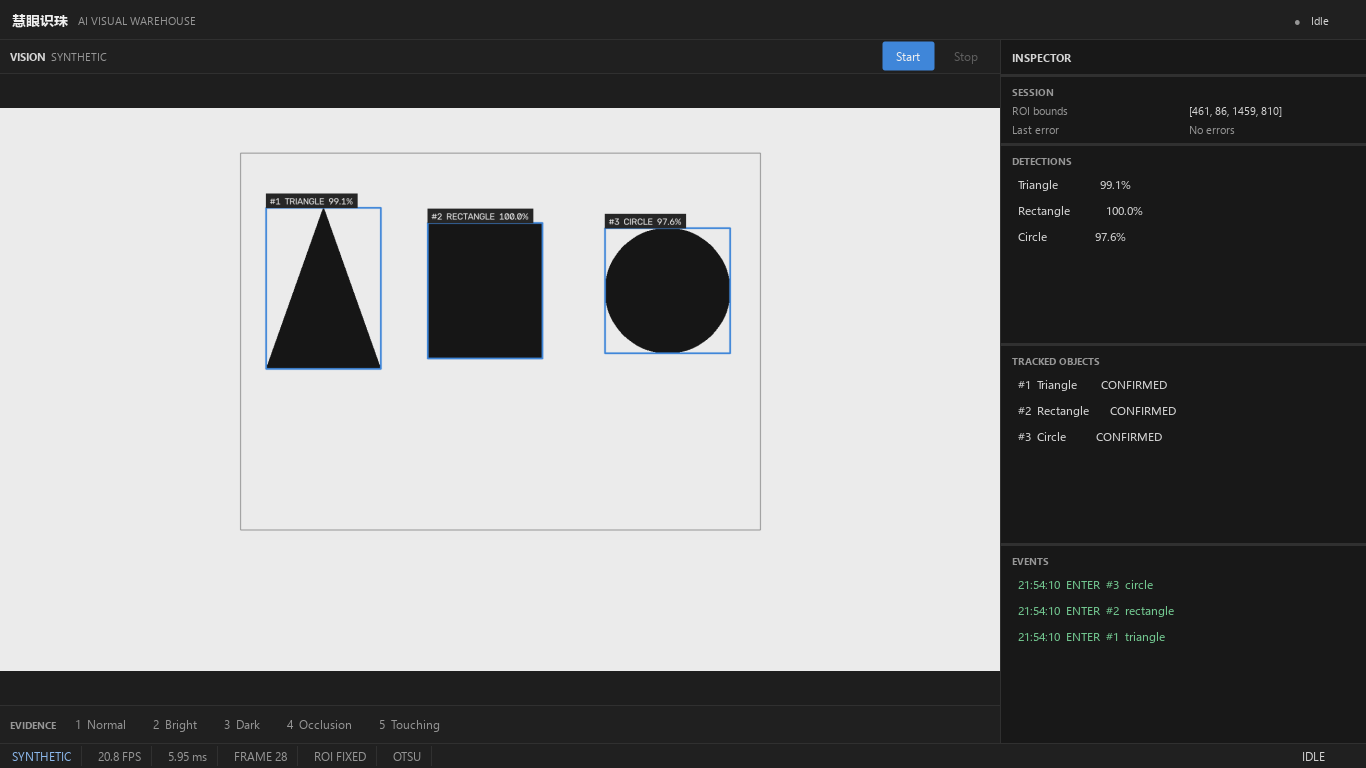
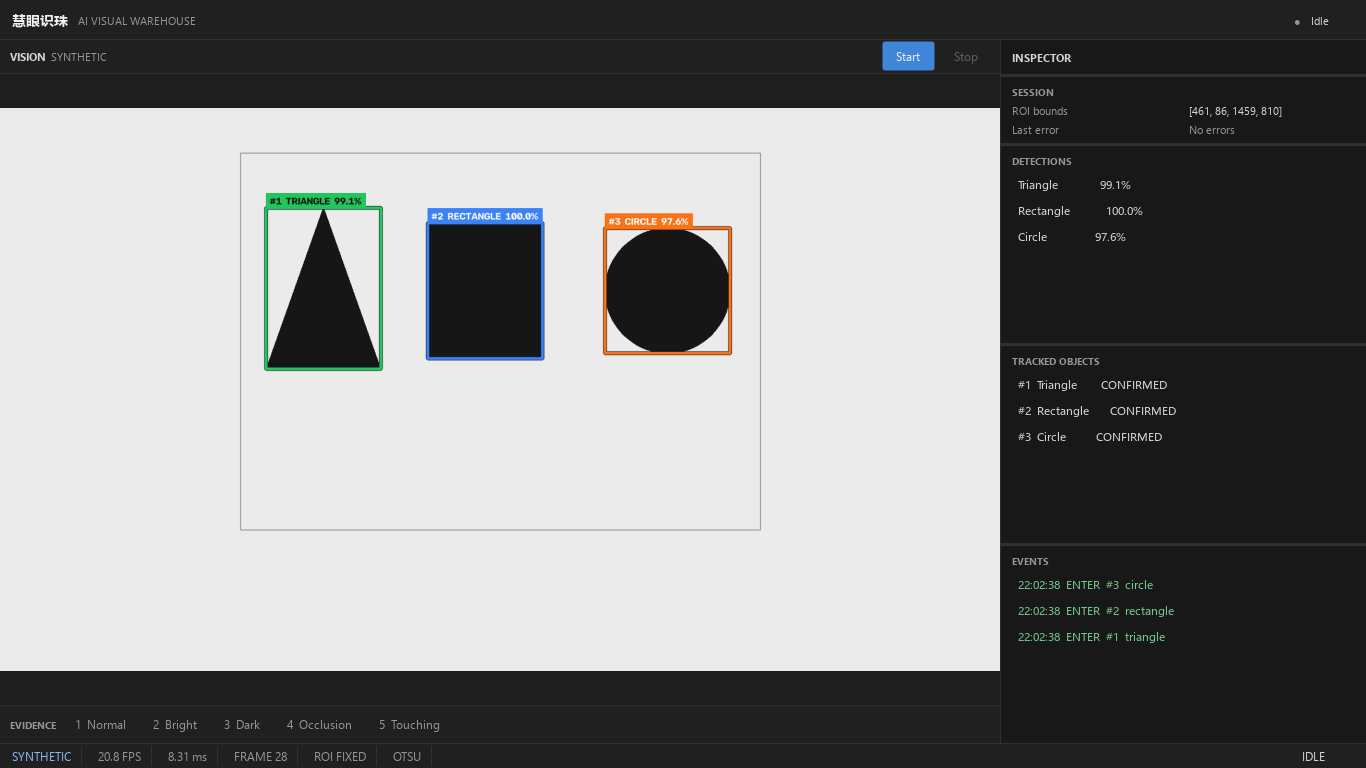
style(m5): improve detection overlay contrast

diff --git a/pc/gui/overlay.py b/pc/gui/overlay.py
@@ -16,6 +16,20 @@ def _display_label(detection: Detection, object_id: int | None) -> str:
     return f"{identity}{detection.label.upper()}  {detection.confidence * 100:.1f}%"
 
 
+def _class_color(label: str) -> tuple[int, int, int]:
+    return {
+        "triangle": OVERLAY.triangle_bgr,
+        "rectangle": OVERLAY.rectangle_bgr,
+        "circle": OVERLAY.circle_bgr,
+    }.get(label, OVERLAY.unknown_bgr)
+
+
+def _contrasting_text(background_bgr: tuple[int, int, int]) -> tuple[int, int, int]:
+    blue, green, red = background_bgr
+    luminance = 0.0722 * blue + 0.7152 * green + 0.2126 * red
+    return (18, 18, 18) if luminance >= 145 else (250, 250, 250)
+
+
 def annotated_gui_frame(
     image: Image,
     analysis: MultiImageAnalysis,
@@ -41,11 +55,20 @@ def annotated_gui_frame(
     }
     for detection in detections:
         x, y, width, height = detection.bbox
+        color = _class_color(detection.label)
         cv2.rectangle(
             output,
             (x, y),
             (x + width - 1, y + height - 1),
-            OVERLAY.bbox_bgr,
+            OVERLAY.bbox_outline_bgr,
+            OVERLAY.bbox_outline_thickness,
+            cv2.LINE_AA,
+        )
+        cv2.rectangle(
+            output,
+            (x, y),
+            (x + width - 1, y + height - 1),
+            color,
             OVERLAY.bbox_thickness,
             cv2.LINE_AA,
         )
@@ -63,7 +86,7 @@ def annotated_gui_frame(
             output,
             (x, label_top),
             (label_right, label_top + label_height),
-            OVERLAY.label_background_bgr,
+            color,
             cv2.FILLED,
         )
         cv2.putText(
@@ -72,7 +95,7 @@ def annotated_gui_frame(
             (x + OVERLAY.label_padding_x, label_top + OVERLAY.label_padding_y + text_height),
             cv2.FONT_HERSHEY_SIMPLEX,
             OVERLAY.font_scale,
-            OVERLAY.label_text_bgr,
+            _contrasting_text(color),
             OVERLAY.font_thickness,
             cv2.LINE_AA,
         )

diff --git a/pc/tests/test_gui_overlay.py b/pc/tests/test_gui_overlay.py
@@ -6,7 +6,7 @@ import numpy as np
 from pc.events.adapters import detections_from_analysis
 from pc.events.config import load_event_config
 from pc.events.tracker import ObjectStateManager
-from pc.gui.overlay import annotated_gui_frame
+from pc.gui.overlay import _class_color, _contrasting_text, annotated_gui_frame
 from pc.gui.theme import OVERLAY
 from pc.vision.config import load_vision_config
 from pc.vision.pipeline import analyze_multiple_objects
@@ -58,3 +58,12 @@ def test_gui_overlay_uses_subdued_roi_token() -> None:
     assert roi_pixel[0] == roi_pixel[1] == roi_pixel[2]
     assert OVERLAY.roi_bgr[0] <= roi_pixel[0] < int(source[top, left, 0])
     assert OVERLAY.roi_thickness == 1
+
+
+def test_gui_overlay_uses_distinct_yolo_style_class_colors() -> None:
+    colors = [_class_color(label) for label in ("triangle", "rectangle", "circle", "unknown")]
+
+    assert len(set(colors)) == 4
+    assert OVERLAY.bbox_thickness == 3
+    assert OVERLAY.bbox_outline_thickness > OVERLAY.bbox_thickness
+    assert all(_contrasting_text(color) in ((18, 18, 18), (250, 250, 250)) for color in colors)

diff --git a/pc/gui/theme.py b/pc/gui/theme.py
@@ -44,13 +44,16 @@ THEME = ThemeTokens()
 @dataclass(frozen=True)
 class OverlayTokens:
     roi_bgr: tuple[int, int, int] = (112, 112, 112)
-    bbox_bgr: tuple[int, int, int] = (217, 134, 63)
-    label_background_bgr: tuple[int, int, int] = (38, 38, 38)
-    label_text_bgr: tuple[int, int, int] = (235, 235, 235)
+    triangle_bgr: tuple[int, int, int] = (94, 197, 34)
+    rectangle_bgr: tuple[int, int, int] = (246, 130, 59)
+    circle_bgr: tuple[int, int, int] = (22, 115, 249)
+    unknown_bgr: tuple[int, int, int] = (68, 68, 239)
+    bbox_outline_bgr: tuple[int, int, int] = (24, 24, 24)
     roi_thickness: int = 1
-    bbox_thickness: int = 2
-    font_scale: float = 0.58
-    font_thickness: int = 1
+    bbox_outline_thickness: int = 5
+    bbox_thickness: int = 3
+    font_scale: float = 0.62
+    font_thickness: int = 2
     label_padding_x: int = 7
     label_padding_y: int = 5
 

diff --git a/docs/ROADMAP.md b/docs/ROADMAP.md
@@ -54,7 +54,7 @@
 - **验收标准**：持续运行无明显阻塞；画面和识别信息同步；性能和恢复行为有实测记录。
 - **所需真实硬件**：摄像头。
 - **是否可在宿舍完成**：是。
-- **当前状态**：DOING。PySide6 6.11.2 已锁定；QObject/QThread worker、容量 1 的 latest-frame buffer、synthetic/camera source adapter、M3/M4 同步 snapshot、Start/Stop/restart/close 和异常恢复均已实现。GUI 已重构为 Application Bar、Vision Workspace、连续 Inspector 和 Status Bar 的桌面工程工具布局。109 项全量 pytest 通过；60.011 秒 synthetic/offscreen soak 处理并显示 1284 帧，processing/GUI FPS 均为 21.395960，0 failed read、0 error、正常退出。该证据不是摄像头实测；完成真实 Insta360 GUI 连续刷新、同步显示、性能与正常关闭验收前不得标记 `DONE`。
+- **当前状态**：DOING。PySide6 6.11.2 已锁定；QObject/QThread worker、容量 1 的 latest-frame buffer、synthetic/camera source adapter、M3/M4 同步 snapshot、Start/Stop/restart/close 和异常恢复均已实现。GUI 已重构为 Application Bar、Vision Workspace、连续 Inspector 和 Status Bar 的桌面工程工具布局，检测叠加采用带深色外描边的 YOLO 风格类别色框。110 项全量 pytest 通过；60.011 秒 synthetic/offscreen soak 处理并显示 1284 帧，processing/GUI FPS 均为 21.395960，0 failed read、0 error、正常退出。该证据不是摄像头实测；完成真实 Insta360 GUI 连续刷新、同步显示、性能与正常关闭验收前不得标记 `DONE`。
 
 ## M6 Fake PLC 模拟器 — TODO
 

diff --git a/notes/daily/2026-09-04-M5-GUI离线软件验证.md b/notes/daily/2026-09-04-M5-GUI离线软件验证.md
@@ -45,4 +45,4 @@ status: offline-complete-live-pending
 
 同日按纯 presentation-layer 范围完成一次视觉与信息架构重构：原来的两行标题和四个独立圆角 Card 改为 40 px Application Bar、约 72:28 的 Vision Workspace / Inspector、紧凑 evidence toolbar 和 24 px Status Bar。Inspector 采用连续侧栏、section heading 与 1 px divider；主题 token 集中在 `pc/gui/theme.py`。GUI overlay 改为弱化 ROI、紧凑 `#ID + CLASS + 百分比` 标签，但 M3 分类、M4 tracking/events、worker、source、ROI 和 evidence 保存均未改变。
 
-实际查看两轮 1366×768 offscreen 截图后，又修正了 QLabel 块状继承背景和过高权重的亮蓝状态栏。最终截图见 `../../evidence/screenshots/m5/synthetic/m5-gui-desktop-workspace.png`。新增结构/overlay 验证后完整 pytest 为 `109 passed in 4.03s`；这仍是 synthetic UI 证据，不改变 M5 `DOING` 状态。
+实际查看两轮 1366×768 offscreen 截图后，又修正了 QLabel 块状继承背景和过高权重的亮蓝状态栏。针对检测框与画面亮度接近、标签不够醒目的反馈，最终叠加改为 YOLO 风格：triangle/rectangle/circle/unknown 使用不同类别色，bbox 增加深色外描边，实心标签文字根据底色自动选择黑或白；ROI 仍保持 1 px 低权重灰线。最终截图见 `../../evidence/screenshots/m5/synthetic/m5-gui-desktop-workspace.png`。新增结构/overlay 验证后完整 pytest 为 `110 passed in 3.81s`；这仍是 synthetic UI 证据，不改变 M5 `DOING` 状态。

diff --git a/notes/tests/TEST-006-M5-GUI离线与实时验收.md b/notes/tests/TEST-006-M5-GUI离线与实时验收.md
@@ -38,7 +38,7 @@ result: offline-pass-live-pending
 | close running | `closeEvent` 请求中断并等待 worker 正常退出 | PASS |
 | backpressure | 容量 1；连续发布 1/2/3 后只取得 frame 3，2 次 overwrite | PASS |
 | resize | pixmap 使用 `KeepAspectRatio`，不触发视觉重算 | PASS |
-| compact overlay | ROI 细线、ID-aware label、源图不被修改 | PASS |
+| compact overlay | ROI 细线、类别色 bbox、深色外描边、自动黑白文字、ID-aware label、源图不被修改 | PASS |
 
 相关 pytest 文件：`../../pc/tests/test_gui_buffer.py`、`../../pc/tests/test_gui_overlay.py`、`../../pc/tests/test_gui_window.py`。测试没有使用几秒固定 `sleep()`，而是确定性 source 和有上限的 Qt event-loop 条件等待。
 
@@ -64,7 +64,7 @@ soak 由真实 `.venv` 进程运行，但输入是 synthetic、Qt 平台是 offs
 
 ### 回归
 
-- 完整 pytest：UI/UX 重构后 `109 passed in 4.03s`。
+- 完整 pytest：UI/UX 重构及 overlay 对比度优化后 `110 passed in 3.81s`。
 - M2 十张真实离线图片：`10/10`，background 1/1、circle 3/3、rectangle 3/3、triangle 3/3。
 - M3 synthetic：4 个强制光照场景、两种方案均精确输出三类，`all_required_scenes_pass=true`；遮挡/接触局限未改写。
 - M4：12/12 detection-sequence 场景通过，`failing_scenarios=0`。

diff --git a/docs/M5_GUI.md b/docs/M5_GUI.md
@@ -55,7 +55,7 @@ Vision Workspace 与 Inspector 初始比例约为 72:28，允许拖动；Inspect
 - source open/read failure 和 vision exception 可见且可重试；
 - synthetic 与 camera 两种 source adapter。
 
-GUI 专用 overlay 位于 `pc/gui/overlay.py`：ROI 为 1 px 低权重灰线；detection bbox 为 2 px 克制蓝线；标签格式为 `#1 TRIANGLE 99.1%`。object ID、类别和 confidence 全部来自现有 M3/M4 结果，overlay 不重新分类或关联，也不改变用于 runtime evidence 的既有 M3 annotation。
+GUI 专用 overlay 位于 `pc/gui/overlay.py`：ROI 为 1 px 低权重灰线；detection 使用 YOLO 风格的类别色边框、深色外描边和同色实心标签，triangle/rectangle/circle/unknown 分别使用可区分颜色，标签文字根据底色亮度自动选择深色或白色，格式为 `#1 TRIANGLE 99.1%`。object ID、类别和 confidence 全部来自现有 M3/M4 结果，overlay 不重新分类或关联，也不改变用于 runtime evidence 的既有 M3 annotation。
 
 没有加入无实际功能的重校准按钮。camera source 启动时直接复用 M2/M3 的 `auto -> manual -> fixed_normalized` 校准流程，ROI 在本次运行内锁定，不做逐帧动态追踪。
 

diff --git a/README.md b/README.md
@@ -17,7 +17,7 @@
 - 实时入口复用 M1 的设备选择和 `open_configured_camera`，没有复制第二套摄像头管理逻辑。
 - M3 已建立多目标薄层扩展、确定性合成数据集、离线双方案评估和 Otsu / CLAHE+Otsu 同帧实时证据入口；6 个合成场景的离线结果已留档，真实三种光照、遮挡和粘连测试待项目负责人执行。
 - M4 的软件与离线模拟验证已完成：连续停留、短时漏检、离场、重入、多目标和同类多目标均有确定性测试；真实摄像头生命周期验收待执行。
-- M5 已完成 PySide6 离线软件部分及 desktop vision workspace UI/UX 重构：threaded worker、synthetic/camera source adapter、M3/M4 同步展示、异常恢复、109 项全量测试和 60 秒 synthetic soak；真实摄像头 GUI 验收待执行。
+- M5 已完成 PySide6 离线软件部分及 desktop vision workspace UI/UX 重构：threaded worker、synthetic/camera source adapter、M3/M4 同步展示、异常恢复、110 项全量测试和 60 秒 synthetic soak；真实摄像头 GUI 验收待执行。
 - M6、通信和 PLC 均尚未开始。
 - 所有尚无真实测试证据的结果均标记为 `TODO` 或“待测试”。
 

diff --git a/docs/ENVIRONMENT.md b/docs/ENVIRONMENT.md
@@ -84,7 +84,7 @@ M1 的最小依赖已锁定在 `requirements.txt`。虚拟环境 `.venv/` 不进
 | Qt runtime | 6.11.2 | `PySide6.QtCore.qVersion()` 实测 |
 | Qt headless | `QT_QPA_PLATFORM=offscreen` | 只在测试进程/CLI 参数内设置，不修改系统环境变量 |
 | OpenCV / NumPy | 5.0.0 / 2.5.2 | 继续复用 M2/M3 管线，未升级 |
-| pytest | 9.1.1 | M5 UI/UX 重构后全量 109 项通过 |
+| pytest | 9.1.1 | M5 UI/UX 重构及 overlay 对比度优化后全量 110 项通过 |
 
 - `pip check` 最终回归结果：`No broken requirements found.`。
 - 60 秒 synthetic soak 达到 processing 21.395960 FPS、GUI update 21.395960 FPS；这不是 Insta360 camera FPS。
